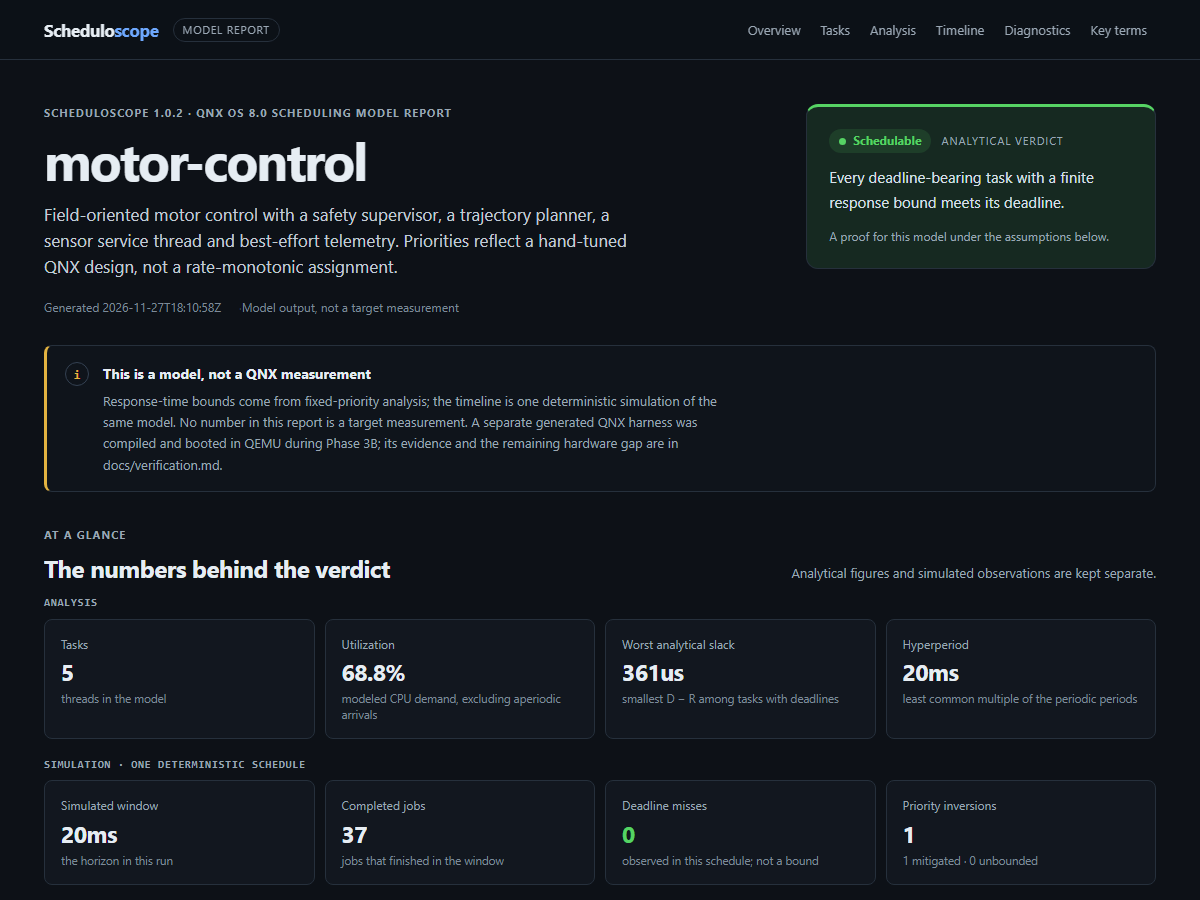
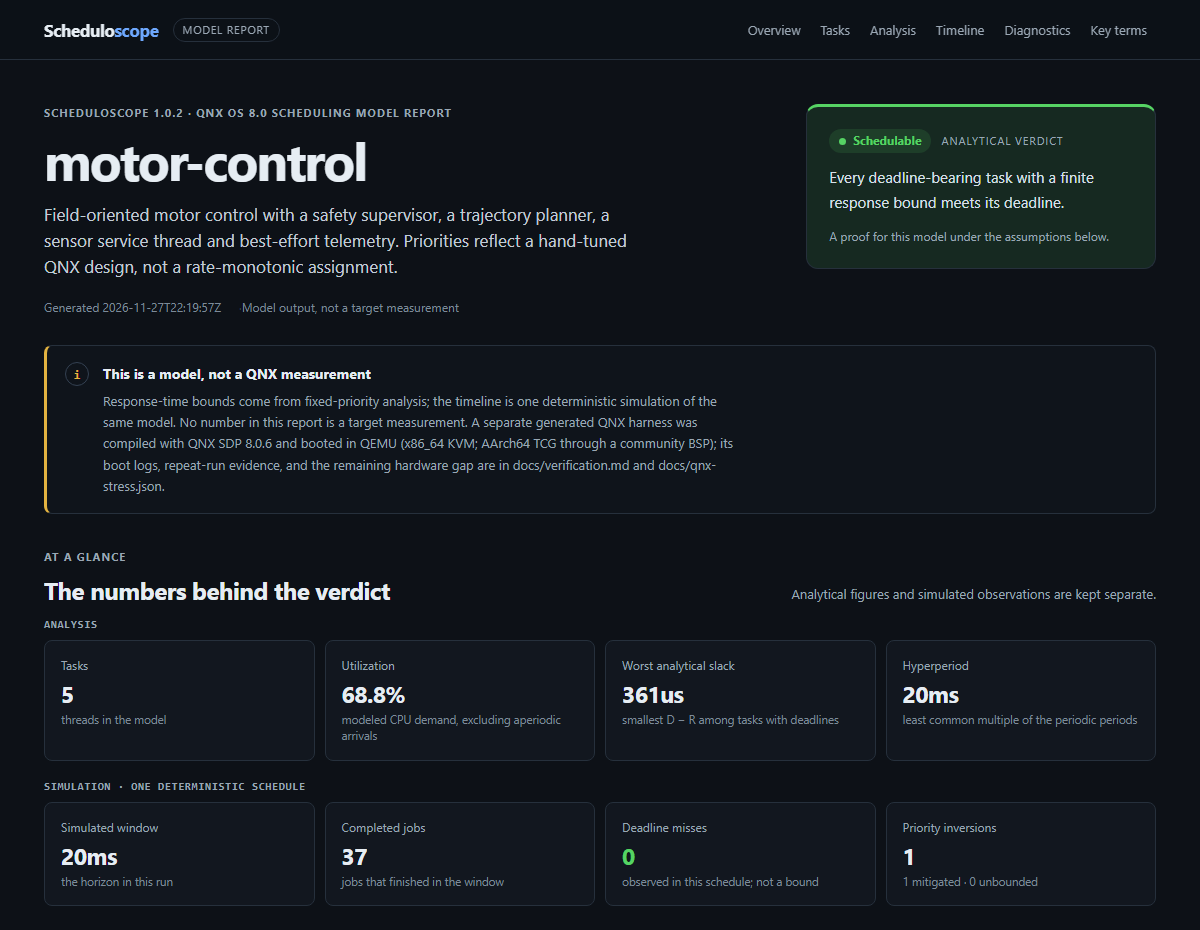
docs: refresh public report screenshot and boundary note

diff --git a/site/index.html b/site/index.html
@@ -211,7 +211,7 @@
           <a class="button secondary" href="demo.html">Watch demo · 2:48</a>
           <a class="button secondary" href="#tour">Three-report tour</a>
         </p>
-        <p class="hero-note"><span class="dot" aria-hidden="true"></span><span>Model and simulation output, not a target measurement. The QNX backend was compiled and booted in QEMU during Phase 3B; no QNX timing from this site is a hardware claim.</span></p>
+        <p class="hero-note"><span class="dot" aria-hidden="true"></span><span>Model and simulation output, not a target measurement. The generated harness was compiled with QNX SDP 8.0.6 and booted in QEMU (x86_64 KVM; AArch64 TCG through a community BSP); no QNX timing from this site is a hardware claim.</span></p>
         <div class="facts">
           <span><strong>v1.0.2</strong></span>
           <span>Apache-2.0</span>

diff --git a/CHANGELOG.md b/CHANGELOG.md
@@ -14,6 +14,10 @@ The report model-boundary callout now names QNX SDP 8.0.6, x86_64 KVM and AArch6
 evidence, and the repeat-run stress record, instead of referring only to Phase 3B. The callout still
 states that every number in the report is model output, not a target measurement.
 
+The README hero screenshot and the landing-page boundary note now use the same SDP 8.0.6, x86_64
+KVM and AArch64 TCG evidence wording, removing the last stale Phase 3B reference from the public
+landing page.
+
 Phase 5 added a 50-to-800-task scaling benchmark with JSON output and a repeatable QNX boot
 stress script. Three KVM boots and one TCG comparison all produced complete `platform: qnx`
 reports; KVM reduced the observed miss count and worst response versus TCG but remains an
